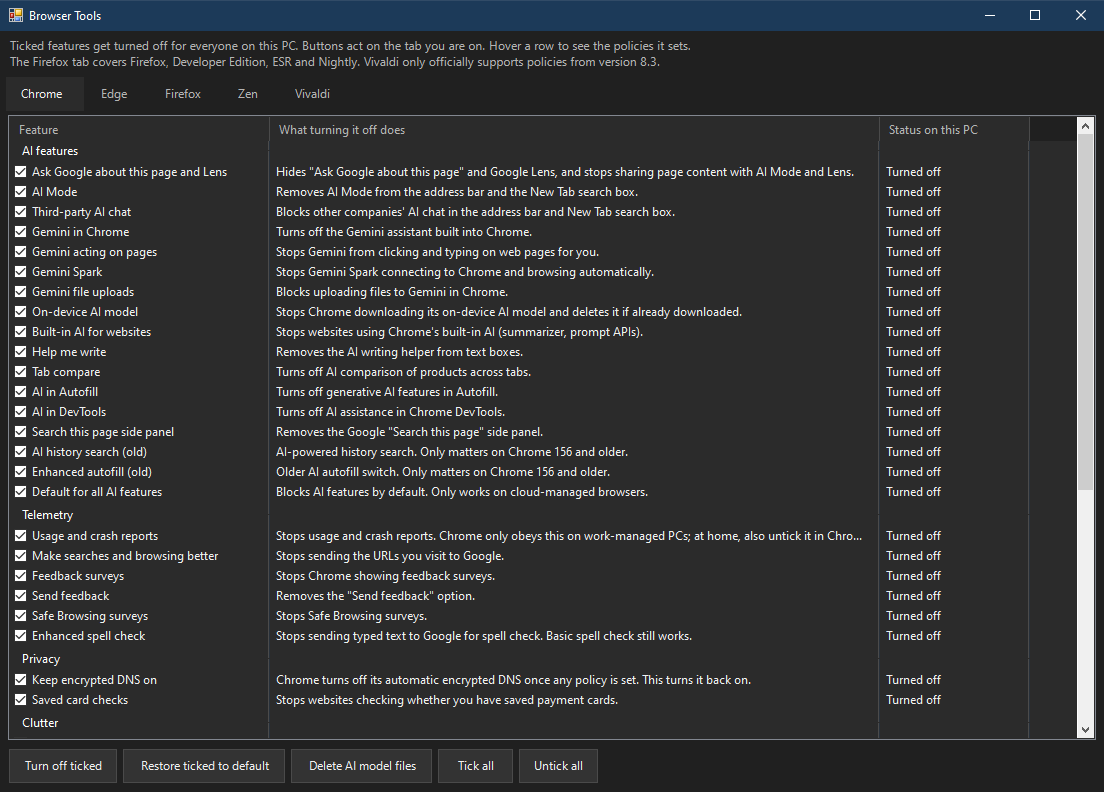
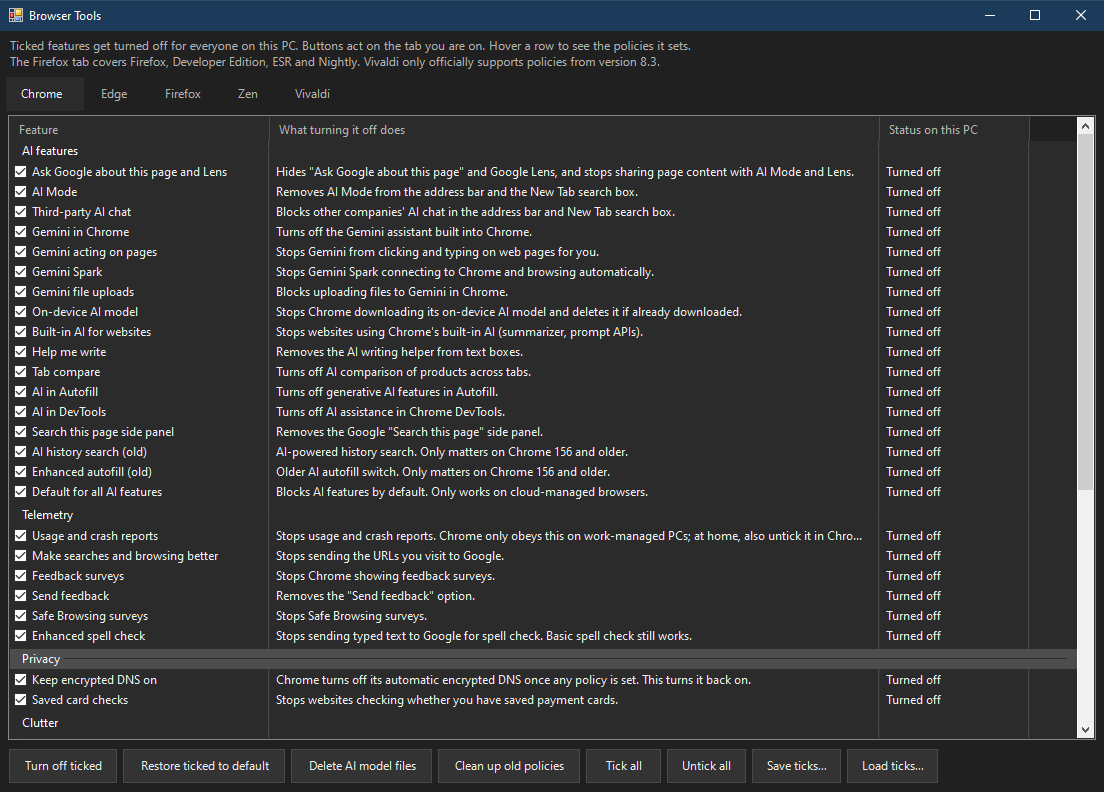
Add old policy cleanup and shareable tick presets

diff --git a/README.md b/README.md
@@ -23,6 +23,8 @@ Either way it asks for administrator rights, because browser policies live under
 - **Turn off ticked** writes the policies. Restart the browser afterwards.
 - **Restore ticked to default** removes them again, so the browser goes back to normal.
 - **Delete AI model files** frees the on-device AI model (several GB) that Chrome and Edge download. Firefox and Zen delete their own models once their AI features are blocked.
+- **Clean up old policies** lists policies on that tab that the browser no longer uses or that a newer policy replaced (for example old Privacy Sandbox settings in Chrome), and removes them after you confirm.
+- **Save ticks...** and **Load ticks...** store the ticks of every tab in a small `.json` file, so you can share your setup and load it on another PC. Loading only sets the ticks; click **Turn off ticked** on each tab to apply.
 - Hover a row to see exactly which policies it sets.
 
 You can check what a browser picked up at `chrome://policy`, `edge://policy`, `about:policies` (Firefox, Zen) or `vivaldi://policy`.
